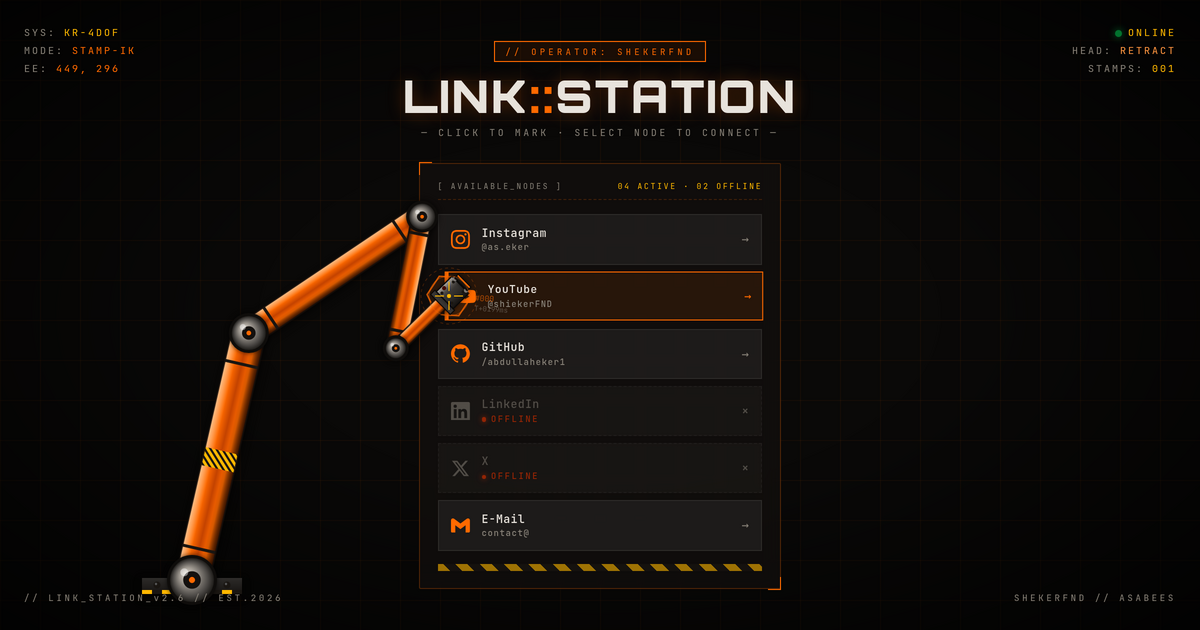
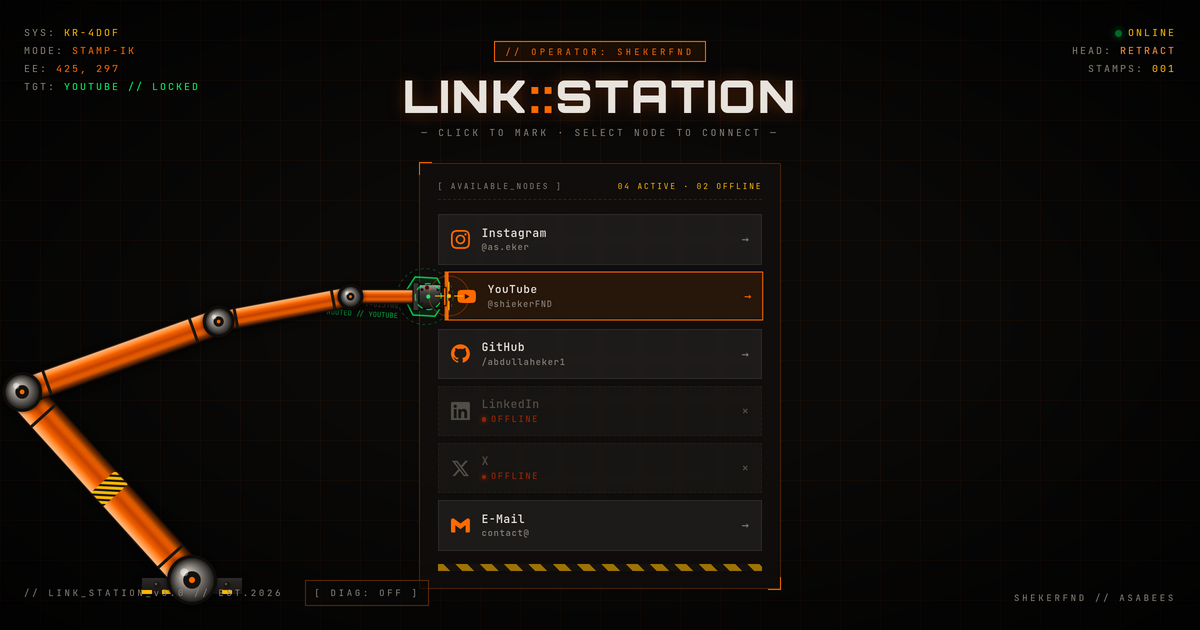
Docs and assets for v3.1: motors, posture solver, phone rail
README: interaction table covers the motor lag, APPROACH, and the
phone rail; "how it works" describes relative joints, the analytic
posture solver, motors, the exact reach test and the phone stage;
check list adds the diagnostics ghost and the phone port check; v3.1
in the history. A phone demo GIF sits next to the desktop one and
the OG image is re-rendered with the new docking posture. HUD version
string bumped to v3.1.

CLAUDE.md gains an "Arm model" section so the analytic solver and
the rail rules don't get regressed.

Claude-Session: https://claude.ai/code/session_01WLEpHmdZVpQNjH9Rkif6Y8

diff --git a/index.html b/index.html
@@ -510,7 +510,7 @@
 
 <!-- After the panel in DOM order so Tab reaches the nodes first -->
 <div class="hud hud-bl">
-  <span class="ver" aria-hidden="true">// LINK_STATION_v3.0 // EST.2026</span>
+  <span class="ver" aria-hidden="true">// LINK_STATION_v3.1 // EST.2026</span>
   <button class="diag-toggle" id="diagBtn" type="button" aria-pressed="false" title="Diagnostics overlay (D)">[ DIAG: OFF ]</button>
 </div>
 

diff --git a/README.md b/README.md
@@ -2,9 +2,12 @@
 
 **Live:** https://abdullaheker1.github.io/link-station/
 
-A personal link-in-bio page guarded by a 4-DOF industrial robot arm. The arm tracks your pointer with a CCD inverse-kinematics solver, docks on whichever node you hover, and seals it with a pneumatic stamp when you click. Zero build step — one HTML file plus a data file, served by GitHub Pages.
+A personal link-in-bio page guarded by a 4-DOF industrial robot arm. The arm has joint motors with real speed and acceleration limits, an analytic posture solver, and a stamping head: it follows your pointer, docks on whichever node you hover, and seals it with a pneumatic stamp when you click. On phones it lives in a rail beside the panel and reaches in from there. Zero build step — one HTML file plus a data file, served by GitHub Pages.
 
-![LINK::STATION demo — the arm locks on a node, stamps ROUTED, then the diagnostics overlay is toggled](assets/demo.gif)
+<p>
+  <img src="assets/demo.gif" alt="LINK::STATION on desktop — the arm locks on a node, stamps ROUTED, then the diagnostics overlay is toggled" width="600">
+  <img src="assets/demo-mobile.gif" alt="LINK::STATION on a phone — the arm waits in the left rail, docks on a tapped node, seals it and returns" width="180">
+</p>
 
 ---
 
@@ -16,13 +19,14 @@ shekerFND'nin bağlantı sayfası: Instagram, YouTube, GitHub, e-posta. Sıradan
 
 | Yaptığın | Olan |
 |---|---|
-| İmleci gezdirmek | Kol imleci takip eder; retikül menzil dışındaysa kırmızıya döner (`OUT OF REACH`). |
-| Boş bir yere tıklamak | Kol pnömatik damga döngüsünü çalıştırır (PRESS → PRINT → RETRACT) ve turuncu altıgen bir iz bırakır; iz 3,5 sn'de solar. |
+| İmleci gezdirmek | Kol imleci takip eder — ama ışınlanmaz: her eklemin hız/ivme sınırı vardır, hızlı bir savruluşta geride kalır ve makine gibi yetişir; varışta servo oturması titrer. Retikül menzil dışındaysa kırmızıya döner (`OUT OF REACH`). |
+| Boş bir yere tıklamak | Kol işe kilitlenir (`APPROACH`), noktaya varınca pnömatik damga döngüsünü çalıştırır (PRESS → PRINT → RETRACT) ve turuncu altıgen bir iz bırakır; iz 3,5 sn'de solar. |
 | Bir node'un üzerine gelmek | Kol satırın sol kenarındaki **porta kilitlenir**; HUD `TGT: GITHUB // LOCKED` yazar, portta yeşil halka döner. |
 | Kilitliyken tıklamak | Porta yeşil `ROUTED // GITHUB` mührü basılır; link yeni sekmede açılır, döndüğünde mühür seni bekler. |
 | OFFLINE bir node'a gelmek | Kol yanaşmayı reddeder: kırmızı ✕, retikülde `NO ROUTE`. |
 | `D` tuşu / `[ DIAG ]` düğmesi / `?diag` | **Diagnostik modu**: kol yarı saydamlaşır; iskelet, eklem açıları (A1–A4), uzuv boyları, çalışma uzayı halkası, hedef vektörü ve çözücü okuması görünür. |
 | `Tab` + `Enter` | Klavyeyle de kilitlenir ve damgalanır. |
+| **Telefonda** | Kol panelin solundaki rayda katlanmış bekler; bir node'a dokununca porta −45°'den yanaşıp mühürler, boş bir yere dokununca oraya gidip iz bırakır ve raya döner. Parmak ekrandayken parmağı izler. |
 | Sistem "hareketi azalt" ayarı | Kol park pozunda durur, damga anında basılır. |
 
 Bir şey olmadığında döngü uyur (HUD: `STANDBY`); ilk hareketle uyanır.
@@ -45,14 +49,17 @@ Tek dosya: [`links.js`](links.js). `index.html`'e dokunman gerekmez.
 index.html   sayfa: stil, panel, robot kol motoru (yorumlar öğrenme amaçlı korunmuştur)
 links.js     düzenlenecek tek dosya: node tablosu
 icons.js     SVG ikon path'leri
-assets/      favicon.svg, apple-touch-icon.png, og.png (paylaşım önizlemesi), demo.gif
+assets/      favicon.svg, apple-touch-icon.png, og.png (paylaşım önizlemesi), demo.gif, demo-mobile.gif
 ```
 
 ### Nasıl çalışıyor (kısaca)
 
-- **Kinematik:** 4 uzuvlu düzlemsel zincir. Her karede CCD (Cyclic Coordinate Descent) 8 iterasyon, `0.25` sönümleme → mekanik bir gecikme hissi. Yalnızca taban eklemi sınırlı. Kod: `solveIK()`.
-- **Menzil:** Halka şeklindeki çalışma uzayı (`checkReach()`); hedef dışarıdaysa kol uzanabildiği yere basar ve iz `LIMIT` etiketi alır.
-- **Damga:** 3 fazlı durum makinesi (`140 / 60 / 260 ms`), 30 izlik ring buffer.
+- **Eklemler:** Durum, gerçek kontrolcülerdeki gibi göreli eklem açılarıdır (`q[0]` mutlak taban, `q[1..3]` bir önceki uzva göre; A1–A4). Her eklemin açı aralığı vardır: taban yerden ≥ 30°, A2 ±152°, A3 ±125°, A4 ±100° — bilek kendi üstüne katlanamaz.
+- **Duruş çözücü (`solveGoal()`):** İteratif değil, analitik. Alet yönü (yanaşmada sabit, serbest takipte omuzdan hedefe), bilek merkezi = hedef − L4, ön kol omuzdan bileğe, dirsek noktası = bilek − L3; kalan iki uzuv için kapalı form 2-uzuv IK. İki ayna çözümden eklem aralıklarına uyup bileği en az büken kazanır. Aynı hedef → her zaman aynı poz; titreme ve yerel minimum yok. Kod: `posture()`, `solveGoal()`.
+- **Motorlar (`updateMotors()`):** Çözücü yalnızca `goalQ` üretir; her eklemi trapez hız profili (eklem başına `vMax`/`aMax`, küçük uzuvlar daha hızlı) hedefe taşır. Varışta tepe hıza orantılı, sönümlü bir servo halkası çizime eklenir.
+- **Menzil (`checkReach()`):** Duruş kuralı için kesin test: hedefin ima ettiği dirsek noktası tabanın etrafındaki iki-uzuv halkasında (dış = L1+L2, iç = dirsek limitinde) mi? Dışarıdaysa kol uzanabildiği yere basar ve iz `LIMIT` etiketi alır.
+- **Damga:** 4 fazlı durum makinesi (`APPROACH → 140 / 60 / 260 ms`), 30 izlik ring buffer. Kol işi bitirene kadar imleci yok sayar.
+- **Telefon sahnesi:** 64 px sol ray; kol boyu tezgâha göre büyütülür (her porta yanaşabilene kadar, ≤ 0,95 × yükseklik); bekleme pozu `HOME_Q` eklem uzayında tanımlıdır; katlanan dirsek panel yerine ekran kenarını tercih eder.
 - **Node kilidi:** `pointerover` / `focusin` ile satır yakalanır; hedef, satırın 16 px solundaki port olur.
 - **Uyku:** Kol hedefe oturmuş, damga döngüsü boş, iz kalmamış ve 1,2 sn girdi yoksa `requestAnimationFrame` durur.
 
@@ -64,11 +71,13 @@ Dosyayı tarayıcıda açman yeterli (`file://` çalışır). Değişiklikten so
 
 - 1440×900, 768×1024, 390×844 ve **320×568** — son link erişilebilir mi?
 - Konsolda hata yok mu?
-- `?diag` ile kol hedefe oturuyor mu (`ERR` ~0)?
+- `?diag` ile kol hedefe oturuyor mu (`ERR` ~0, `MOTORS err` ~0)? Yeşil hayalet (hedef poz) ile turuncu iskelet (motorlar) üst üste biniyor mu?
+- Telefon boyutunda (`390×844`) tüm portlar `ELBOW RING` içinde mi; kol rayda mı bekliyor?
 
 ### Geçmiş
 
 - **v2.6** (Mayıs 2026) — Claude 4.7 Opus ile üretildi: kol, damga, HUD, mobil düzen.
 - **v3.0** (Eylül 2026) — Claude Opus 5 ile yenilendi: `links.js`, OFFLINE node'lar, node kilidi + ROUTED mührü, diagnostik modu, uyuyan render döngüsü, `dvh` ile mobil kaydırma, reduced-motion, klavye odağı, OG/favicon.
+- **v3.1** (Eylül 2026) — "Sahne + beden": eklem motorları (hız/ivme profili, servo oturması), eklem aralıkları, analitik duruş çözücü (CCD kaldırıldı), yanaşmada bilek yönelimi, `APPROACH` fazı; telefonda sol ray, tezgâha göre kol boyu, ev pozu, dokunmayla yönlendirme.
 
 MIT — bkz. [LICENSE](LICENSE).

diff --git a/CLAUDE.md b/CLAUDE.md
@@ -11,6 +11,12 @@ Personal link-in-bio page with a canvas robot arm. Live at https://abdullaheker1
 ## Verify before committing
 Render the page in a real browser at 1440×900, 768×1024, 390×844 and 320×568 (Playwright with `channel: 'chrome'` works on this machine; bundled Chromium downloads don't). Check: no `pageerror`, last `.link` reachable (or page scrollable) on 320×568, arm docks on a hovered node (`?diag` → `ERR` ≈ 0), loop sleeps when idle (`#sysState` → `STANDBY`).
 
+## Arm model (don't regress it)
+- Joint state `q` is RELATIVE (A1 absolute, A2..A4 relative), with ranges in `JOINT_MIN/MAX`. `goalQ` comes from the analytic solver (`posture()` + `solveGoal()`); `updateMotors()` moves `q` toward it with per-joint vMax/aMax. Never go back to per-frame CCD on the drawn angles — it jittered, folded the wrist and never settled.
+- Target priority in `currentTarget()`: reduced-motion park > running stamp job > locked node port > (phone, no finger) `HOME_Q` > pointer.
+- Phones: 64px left rail (CSS `.panel` margin), base at `(34, H-26)`, dock tool angle -45°, arm length fitted in `computeLengths()`. A pose that swings over the panel text on a phone is a bug.
+- Diagnostics (`?diag`) is the tuning tool: green ghost = goal pose, orange skeleton = motors, `ELBOW PT` must sit inside `ELBOW RING`.
+
 ## Conventions
 - Commits: imperative subject, body says *why*. One concern per commit.
 - Palette tokens are in `:root`; stamp kinds are `'mark' | 'limit' | 'route'`.
